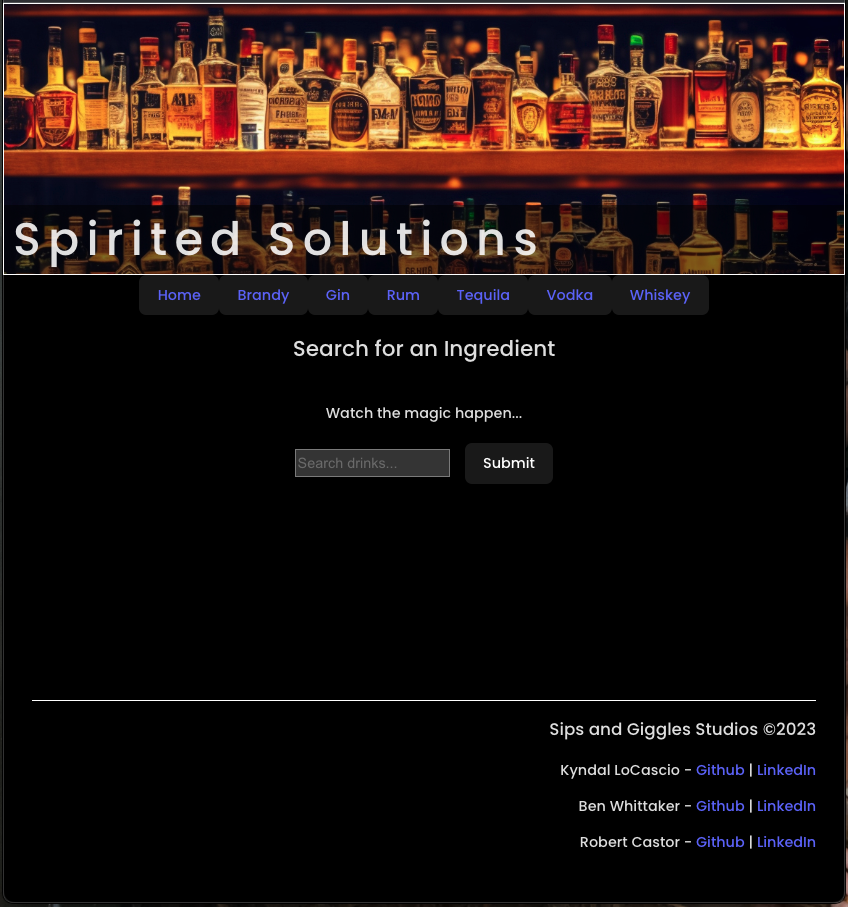
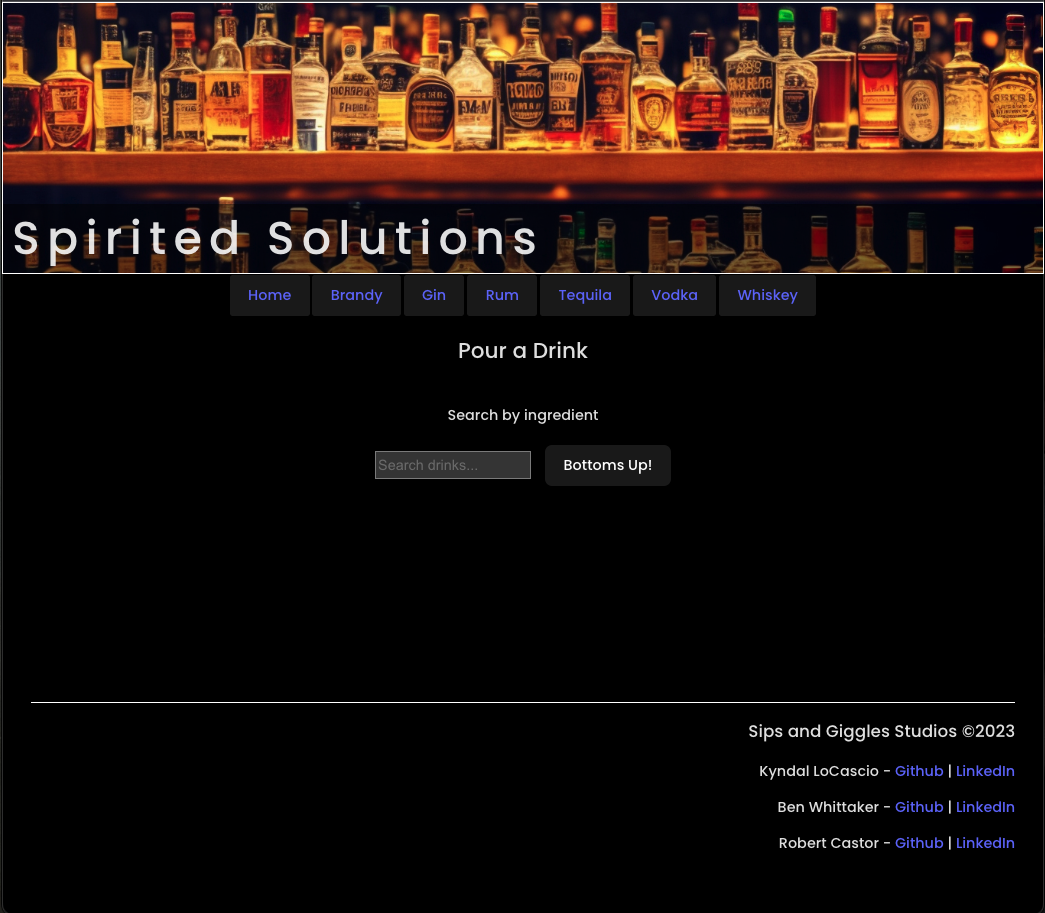
readme complete

diff --git a/spirited-solutions/README.md b/spirited-solutions/README.md
@@ -13,6 +13,9 @@ Home Screen
 ![Rum Location](<src/assets/Rum Location.png>)
 Example of Directory Location - Rum
 
+![Mobile Appearance](<src/assets/Mobile Appearance.png>)
+Full Responsive CSS
+
 ## UserStories
 Users can browsers directories by liquor base.
 Users can search by ingredient.
